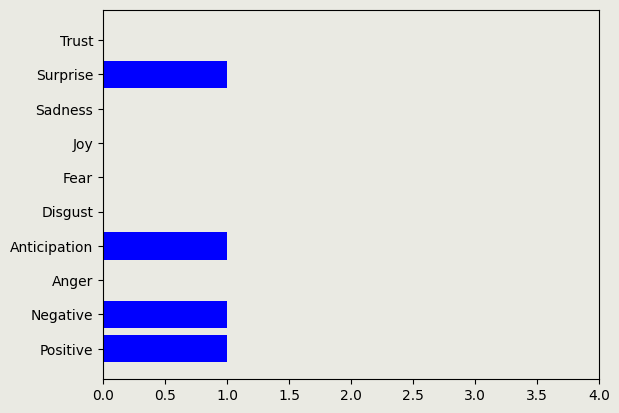
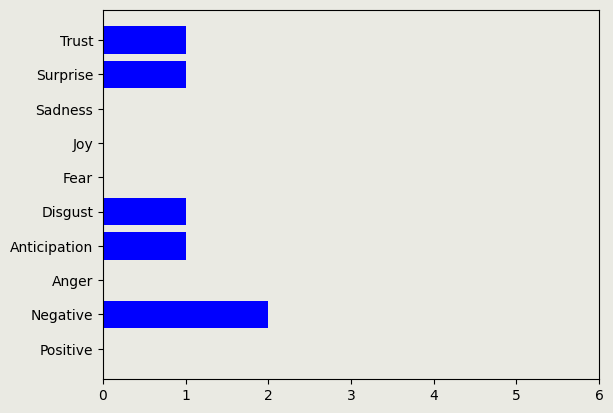
감정 분석 완료

diff --git a/Emotion_Analysis/api/views.py b/Emotion_Analysis/api/views.py
@@ -24,12 +24,34 @@ def load_emolex(request):
     return HttpResponse("emolex load")
 
 
-def main(request):
-    BASE_DIR = os.path.dirname(os.path.dirname(os.path.abspath(__file__)))
-    return HttpResponse(BASE_DIR)
+def main(APIView):
+    def post(self, request, *args, **kwargs):
+        contents = []
+        for row in request.data:
+            contents.append(row["contents"])
+        emolex = BASE_DIR + "/api/static/emolex.xlsx"
+        # 사전 호출
+        emo_df = analysisPro.load_emolex(emolex)
+        saveDIR = BASE_DIR + "/api/static/"
+        # contents 형태소 분석
+        nouns = analysisPro.group_content(contents)
+        # 감정 분석
+        emotion_sum = analysisPro.emo_dataframe(nouns, emo_df)
+        # 워드클라우드
+        analysisPro.wordcloud(nouns, saveDIR, 0)
+        # 바 그래프
+        analysisPro.bar_graph(emotion_sum, saveDIR, 0)
+        # 선 그래프
+        analysisPro.line_graph(emotion_sum, saveDIR, 0)
+        # 파이 그래프
+        analysisPro.pie_graph(emotion_sum, saveDIR, 0)
+        # 레이더 그래프
+        analysisPro.raider_graph(emotion_sum, saveDIR, 0)
+
+    return Response(status=status.HTTP_200_OK)
 
 
-class getBoard(APIView):
+class analysisOne(APIView):
     model = Board
     serializer = BoardSerializer
 
@@ -42,34 +64,85 @@ class getBoard(APIView):
         serializer.is_valid(raise_exception=True)
         board = Board(bno=request.data["bno"], title=request.data["title"], contents=request.data["contents"])
         emolex = BASE_DIR + "/api/static/emolex.xlsx"
-        # 사전 호
+        # 사전 호출
         emo_df = analysisPro.load_emolex(emolex)
         saveDIR = BASE_DIR + "/api/static/board/"
         # contents 형태소 분석
         nouns = analysisPro.load_content(board)
         # 워드클라우드
-        analysisPro.wordcloud(nouns, saveDIR, board)
+        analysisPro.wordcloud(nouns, saveDIR, board.bno)
         # 감정 분석
         emotion_sum = analysisPro.emo_dataframe(nouns, emo_df)
         # 바 그래프
-        analysisPro.bar_graph(emotion_sum,saveDIR,board)
+        analysisPro.bar_graph(emotion_sum, saveDIR, board.bno)
         # 선 그래프
-        analysisPro.line_graph(emotion_sum,saveDIR,board)
+        analysisPro.line_graph(emotion_sum, saveDIR, board.bno)
         # 파이 그래프
-        analysisPro.pie_graph(emotion_sum, saveDIR, board)
+        analysisPro.pie_graph(emotion_sum, saveDIR, board.bno)
         # 레이더 그래프
-        analysisPro.raider_graph(emotion_sum, saveDIR, board)
+        analysisPro.raider_graph(emotion_sum, saveDIR, board.bno)
 
         return Response(status=status.HTTP_200_OK)
 
 
-class test(APIView):
-
+class saveBoard(APIView):
     def post(self, request, *args, **kwargs):
         board = Board(bno=request.data["bno"], title=request.data["title"], contents=request.data["contents"])
         emolex = BASE_DIR + "/api/static/emolex.xlsx"
         emo_df = analysisPro.load_emolex(emolex)
-        saveDIR = BASE_DIR + "/api/static/board/"
+        # contents 형태소 분석
         nouns = analysisPro.load_content(board)
+        emotion = analysisPro.emo_board(nouns, emo_df)
+        return Response({"emotion":emotion}, status=status.HTTP_200_OK)
+
+class analysisGroup(APIView):
+    def post(self, request,pk=None, *args, **kwargs):
+        contents = []
+        for row in request.data:
+            contents.append(row["contents"])
+        emolex = BASE_DIR + "/api/static/emolex.xlsx"
+        # 사전 호출
+        emo_df = analysisPro.load_emolex(emolex)
+        saveDIR = BASE_DIR + "/api/static/together/"
+        # contents 형태소 분석
+        nouns = analysisPro.group_content(contents)
+        # 감정 분석
         emotion_sum = analysisPro.emo_dataframe(nouns, emo_df)
+        # 워드클라우드
+        analysisPro.wordcloud(nouns, saveDIR, pk)
+        # 바 그래프
+        analysisPro.bar_graph(emotion_sum, saveDIR, pk)
+        # 선 그래프
+        analysisPro.line_graph(emotion_sum, saveDIR, pk)
+        # 파이 그래프
+        analysisPro.pie_graph(emotion_sum, saveDIR, pk)
+        # 레이더 그래프
+        analysisPro.raider_graph(emotion_sum, saveDIR, pk)
+
+        return Response(status=status.HTTP_200_OK)
+
+class analysisMy(APIView):
+    def post(self, request, pk=None, *args, **kwargs):
+        contents = []
+        for row in request.data:
+            contents.append(row["contents"])
+        emolex = BASE_DIR + "/api/static/emolex.xlsx"
+        # 사전 호출
+        emo_df = analysisPro.load_emolex(emolex)
+        saveDIR = BASE_DIR + "/api/static/my/"
+        # contents 형태소 분석
+        nouns = analysisPro.group_content(contents)
+        # 감정 분석
+        emotion_sum = analysisPro.emo_dataframe(nouns, emo_df)
+        # 워드클라우드
+        analysisPro.wordcloud(nouns, saveDIR, pk)
+        # 바 그래프
+        analysisPro.bar_graph(emotion_sum, saveDIR, pk)
+        # 선 그래프
+        analysisPro.line_graph(emotion_sum, saveDIR, pk)
+        # 파이 그래프
+        analysisPro.pie_graph(emotion_sum, saveDIR, pk)
+        # 레이더 그래프
+        analysisPro.raider_graph(emotion_sum, saveDIR, pk)
+
         return Response(status=status.HTTP_200_OK)

diff --git a/Emotion_Analysis/api/analysisPro.py b/Emotion_Analysis/api/analysisPro.py
@@ -2,7 +2,7 @@ import konlpy
 from collections import Counter
 
 import matplotlib
-from konlpy.tag import Okt
+from konlpy.tag import Okt, Twitter, Kkma
 import matplotlib.pyplot as plt
 from matplotlib import font_manager, rc
 import pytagcloud
@@ -14,6 +14,9 @@ from matplotlib.path import Path
 from matplotlib.spines import Spine
 from matplotlib.transforms import Affine2D
 from threading import Thread
+import pygame
+pygame.init()
+
 matplotlib.use('Agg')
 
 
@@ -40,21 +43,29 @@ def corr_emotion(emolex_df, dir):
 
 
 def load_content(board):
-    print("load_contents", board.contents)
     target = board.contents
     okt = Okt()
     nouns = okt.nouns(target)
     return nouns
 
 
+def group_content(contents):
+    okt = Okt()
+    nouns_list = []
+    for data in contents:
+        nouns = okt.nouns(data)
+        for noun in nouns:
+            nouns_list.append(noun)
+    return nouns_list
+
+
 # 형태소 분석한 결과 가져와서 워드 클라우드 생성
 
-
-def wordcloud(nouns, root, board):
+def wordcloud(nouns, root, number):
     count = Counter(nouns)
     tag = count.most_common(30)
     taglist = pytagcloud.make_tags(tag)
-    save = root + "wordcloud" + str(board.bno) + ".png"
+    save = root + "wordcloud" + str(number) + ".png"
     pytagcloud.create_tag_image(taglist, save,
                                 size=(900, 600), background=(234, 234, 227, 255), fontname='Korean', rectangular=False)
 
@@ -65,45 +76,60 @@ def wordcloud(nouns, root, board):
 def emo_dataframe(nouns, emolex_df):
     analysis_df = emolex_df[emolex_df["Korean (ko)"].isin(nouns)]
     # 감정별로 합산
-    emotion_sum = analysis_df[["Positive", "Negative", "Anger", "Anticipation","Disgust", "Fear", "Joy", "Sadness", "Surprise", "Trust"]].sum()
+    emotion_sum = analysis_df[
+        ["Positive", "Negative", "Anger", "Anticipation", "Disgust", "Fear", "Joy", "Sadness", "Surprise",
+         "Trust"]].sum()
     return emotion_sum
+
+
+def emo_board(nouns, emolex_df):
+    analysis_df = emolex_df[emolex_df["Korean (ko)"].isin(nouns)]
+    emotion_sum = analysis_df[["Anger", "Anticipation", "Disgust", "Fear", "Joy", "Sadness", "Surprise", "Trust"]].sum()
+    emotion = emotion_sum.idxmax()
+    return emotion
 
 
 # 감정분석 결과 바 그래프
 
 
-def bar_graph(emotion_sum, root, board):
+def bar_graph(emotion_sum, root, number):
     x = ["Positive", "Negative", "Anger", "Anticipation",
          "Disgust", "Fear", "Joy", "Sadness", "Surprise", "Trust"]
     plt.barh(x, emotion_sum, color='blue')
-    plt.xlim(0,emotion_sum.sum(axis=0))
-    plt.savefig(root + "bar" + str(board.bno) + ".png", dpi=100, facecolor=("#EAEAE3"), transparent=True, bbox_inches='tight')
+    plt.xlim(0, emotion_sum.sum(axis=0))
+    plt.savefig(root + "bar" + str(number) + ".png", dpi=100, facecolor=("#EAEAE3"), transparent=True,
+                bbox_inches='tight')
     plt.close()
+
 
 # 선그래프
 
 
-def line_graph(emotion_sum, root, board):
+def line_graph(emotion_sum, root, number):
     x = ["Positive", "Negative", "Anger", "Anticipation",
          "Disgust", "Fear", "Joy", "Sadness", "Surprise", "Trust"]
     plt.plot(x, emotion_sum)
-    plt.savefig(root + "line" + str(board.bno) + ".png", dpi=100, facecolor=("#EAEAE3"), transparent=True, bbox_inches='tight')
+    plt.savefig(root + "line" + str(number) + ".png", dpi=100, facecolor=("#EAEAE3"), transparent=True,
+                bbox_inches='tight')
     plt.close()
+
 
 # 파이그래프
 
 
-def pie_graph(emotion_sum, root, board):
+def pie_graph(emotion_sum, root, number):
     x = ["Positive", "Negative", "Anger", "Anticipation",
          "Disgust", "Fear", "Joy", "Sadness", "Surprise", "Trust"]
     plt.pie(emotion_sum, labels=x, autopct='%.1f%%')
-    plt.savefig(root + "pie" + str(board.bno) + ".png", dpi=100, facecolor=("#EAEAE3"), transparent=True, bbox_inches='tight')
+    plt.savefig(root + "pie" + str(number) + ".png", dpi=100, facecolor=("#EAEAE3"), transparent=True,
+                bbox_inches='tight')
     plt.close()
+
 
 # 레이더 그래프
 
 
-def raider_graph(emotion_sum, root, board):
+def raider_graph(emotion_sum, root, number):
     # plotThread = Thread(target=raider_graph)
     # plotThread.daemon = True
     # plotThread.start()
@@ -142,11 +168,14 @@ def raider_graph(emotion_sum, root, board):
         plt.title('test', size=20, color=color, x=-0.2, y=1.2, ha='left')
 
     plt.tight_layout(pad=5)  # subplot간 패딩 조절
-    plt.savefig(root + "raider" + str(board.bno) + ".png", dpi=100, facecolor=("#EAEAE3"), transparent=True, bbox_inches='tight')
+    plt.savefig(root + "raider" + str(number) + ".png", dpi=100, facecolor=("#EAEAE3"), transparent=True,
+                bbox_inches='tight')
     plt.close()
     # plotThread.join()
 
     # 게시글 하나 분석
+
+
 def analysisOneContent(board, emolex, root):
     # 게시글 호출, 형태소 분석
     nouns = load_content(board)
@@ -164,4 +193,3 @@ def analysisOneContent(board, emolex, root):
     line_graph(emotion_sum, root, board)
     # 레이더 그래프
     raider_graph(emotion_sum, root, board)
-

diff --git a/Emotion_Analysis/api/urls.py b/Emotion_Analysis/api/urls.py
@@ -1,9 +1,11 @@
 from django.urls import path
 
-from api.views import main, getBoard, load_emolex, test
+from api.views import main, analysisOne, load_emolex, saveBoard, analysisGroup, analysisMy
 
 urlpatterns = [
-    path('', load_emolex),
-    path('one/',getBoard.as_view()),
-    path('test/',test.as_view()),
+    path('', main.as_view()),
+    path('one/',analysisOne.as_view()),
+    path('oneEmotion/', saveBoard.as_view()),
+    path('groupEmotion/<int:pk>', analysisGroup.as_view()),
+    path('myEmotion/<int:pk>', analysisMy.as_view()),
 ]
